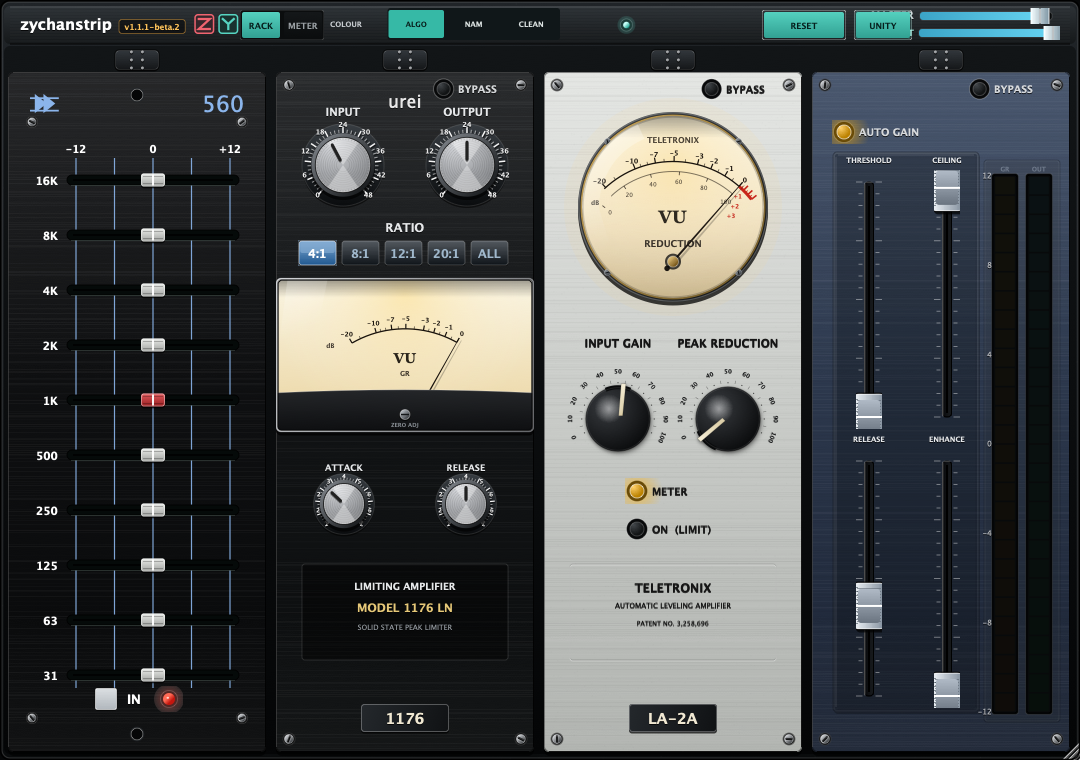
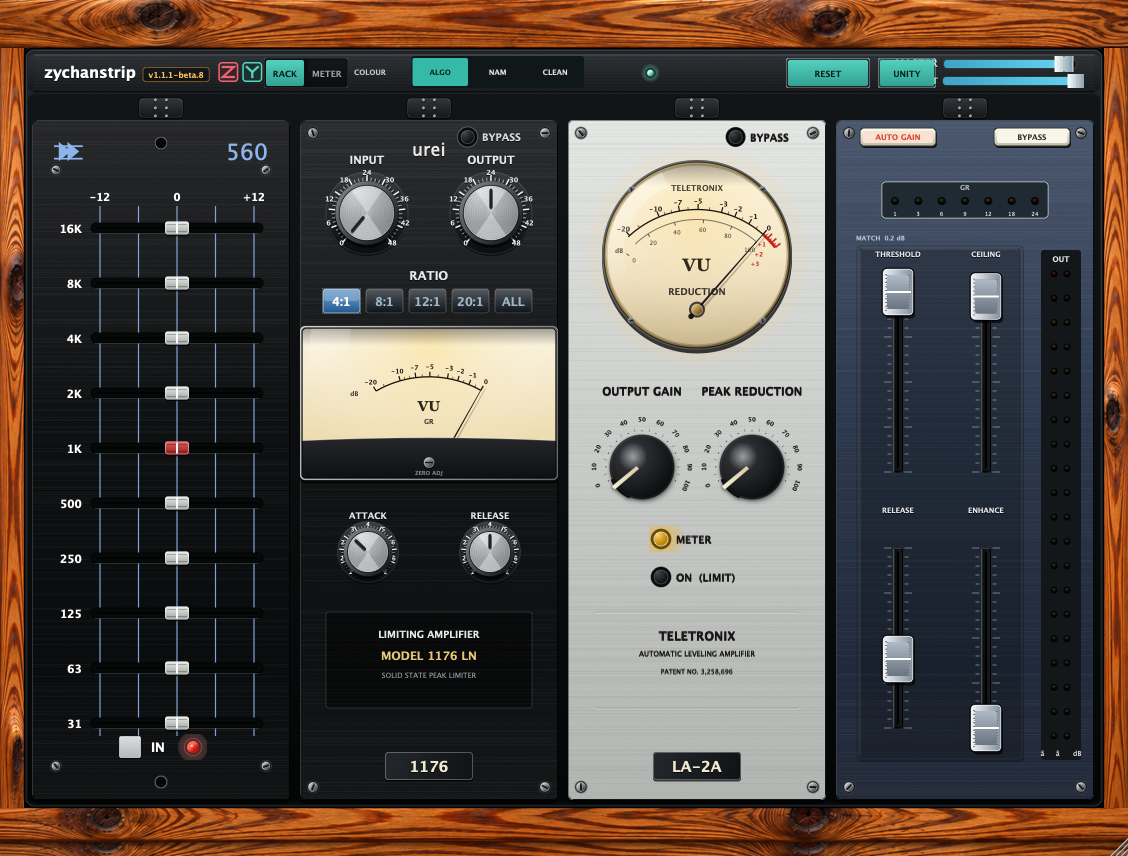
Add live wood frame to rack and meter UI

diff --git a/Source/PluginEditor.cpp b/Source/PluginEditor.cpp
@@ -1,6 +1,7 @@
 #include "PluginEditor.h"
 #include "MeterPanel.h"
 #include "UiStyle.h"
+#include "BinaryData.h"
 
 
 using namespace juce;
@@ -20,8 +21,69 @@ constexpr int kMargin = 8;      // window chrome margin
 constexpr int kHeaderH = 44;     // header bar height
 constexpr int kGripH = 24;       // space above each plate for the drag grip
 constexpr int kGap = 10;         // gap between plates
-constexpr int kEditorW = 1080;
-constexpr int kEditorH = 760;
+constexpr int kEditorW = ZychanStripEditor::kCanvasWidth;
+constexpr int kEditorH = ZychanStripEditor::kCanvasHeight;
+
+const Image& woodTopTexture()
+{
+    static const Image image = ImageCache::getFromMemory (ZychanStripWoodFrameData::wood_top_png,
+                                                           ZychanStripWoodFrameData::wood_top_pngSize);
+    return image;
+}
+
+const Image& woodBottomTexture()
+{
+    static const Image image = ImageCache::getFromMemory (ZychanStripWoodFrameData::wood_bottom_png,
+                                                           ZychanStripWoodFrameData::wood_bottom_pngSize);
+    return image;
+}
+
+const Image& woodLeftTexture()
+{
+    static const Image image = ImageCache::getFromMemory (ZychanStripWoodFrameData::wood_left_png,
+                                                           ZychanStripWoodFrameData::wood_left_pngSize);
+    return image;
+}
+
+const Image& woodRightTexture()
+{
+    static const Image image = ImageCache::getFromMemory (ZychanStripWoodFrameData::wood_right_png,
+                                                           ZychanStripWoodFrameData::wood_right_pngSize);
+    return image;
+}
+
+void drawWoodFrame (Graphics& g, Rectangle<float> bounds)
+{
+    constexpr float logicalWidth = (float) ZychanStripEditor::kCanvasWidth;
+    constexpr float logicalHeight = (float) ZychanStripEditor::kCanvasHeight;
+    constexpr float frameWidth = logicalWidth + 2.0f * (float) ZychanStripEditor::kWoodSideRail;
+    constexpr float frameHeight = logicalHeight + 2.0f * (float) ZychanStripEditor::kWoodTopBottomRail;
+    const float scale = jmax (0.01f, jmin (bounds.getWidth() / frameWidth, bounds.getHeight() / frameHeight));
+    const float side = (bounds.getWidth() - logicalWidth * scale) * 0.5f;
+    const float horizontal = (bounds.getHeight() - logicalHeight * scale) * 0.5f;
+    const float innerHeight = logicalHeight * scale;
+
+    g.setImageResamplingQuality (Graphics::highResamplingQuality);
+    g.drawImage (woodTopTexture(), Rectangle<float> (bounds.getX(), bounds.getY(), bounds.getWidth(), horizontal),
+                 RectanglePlacement::stretchToFit);
+    g.drawImage (woodBottomTexture(), Rectangle<float> (bounds.getX(), bounds.getBottom() - horizontal,
+                                                         bounds.getWidth(), horizontal),
+                 RectanglePlacement::stretchToFit);
+    g.drawImage (woodLeftTexture(), Rectangle<float> (bounds.getX(), bounds.getY() + horizontal,
+                                                       side, innerHeight),
+                 RectanglePlacement::stretchToFit);
+    g.drawImage (woodRightTexture(), Rectangle<float> (bounds.getRight() - side, bounds.getY() + horizontal,
+                                                        side, innerHeight),
+                 RectanglePlacement::stretchToFit);
+
+    // A fine dark inner reveal joins the live canvas to the wood without covering controls.
+    g.setColour (Colours::black.withAlpha (0.72f));
+    g.drawRect (Rectangle<float> (side, horizontal, logicalWidth * scale, logicalHeight * scale),
+                jmax (1.0f, 2.0f * scale));
+    g.setColour (Colours::white.withAlpha (0.16f));
+    g.drawLine (side + 2.0f * scale, horizontal + scale,
+                side + (logicalWidth - 2.0f) * scale, horizontal + scale, jmax (0.6f, scale));
+}
 
 // Authentic zynamfx ZY monogram SVG (exact brand mark from zynamfx Brand.cpp)
 constexpr const char* kZyMarkSvg =
@@ -2316,9 +2378,11 @@ ZychanStripEditor::ZychanStripEditor (ZychanStripProcessor& p)
     mixAttachment = std::make_unique<AudioProcessorValueTreeState::SliderAttachment> (proc.apvts, "master_mix", mixFader);
 
     setResizable (true, true);
-    setResizeLimits (864, 608, 1620, 1140);
-    getConstrainer()->setFixedAspectRatio ((double) kEditorW / kEditorH);
-    setSize (864, 608);
+    constexpr int framedW = kEditorW + 2 * kWoodSideRail;
+    constexpr int framedH = kEditorH + 2 * kWoodTopBottomRail;
+    setResizeLimits (904, 686, framedW * 3 / 2, framedH * 3 / 2);
+    getConstrainer()->setFixedAspectRatio ((double) framedW / framedH);
+    setSize (framedW, framedH);
     meterPanel->onUpdateIntervalChanged = [this](int ms) { startTimer(ms); };
     startTimer (33);
 }
@@ -2403,16 +2467,22 @@ void ZychanStripEditor::resized()
     // Reset button sits on the header, left of the master fader.
     resetButton.setBounds (kEditorW - kMargin - 160 - 150, 10, 84, 30);
     unityButton->setBounds (kEditorW - kMargin - 160 - 58, 10, 58, 30);
-    if (meterPanel != nullptr && metersShown)
-        meterPanel->setBounds (getLocalBounds());
-
-    const float scale = jmax (0.01f, jmin ((float) getWidth() / kEditorW, (float) getHeight() / kEditorH));
-    canvasTransform = AffineTransform::scale (scale).translated (
-        ((float) getWidth() - kEditorW * scale) * 0.5f,
-        ((float) getHeight() - kEditorH * scale) * 0.5f);
+    constexpr float framedWidth = (float) kEditorW + 2.0f * (float) kWoodSideRail;
+    constexpr float framedHeight = (float) kEditorH + 2.0f * (float) kWoodTopBottomRail;
+    const float scale = jmax (0.01f, jmin ((float) getWidth() / framedWidth,
+                                           (float) getHeight() / framedHeight));
+    const float offsetX = ((float) getWidth() - kEditorW * scale) * 0.5f;
+    const float offsetY = ((float) getHeight() - kEditorH * scale) * 0.5f;
+    canvasTransform = AffineTransform::scale (scale).translated (offsetX, offsetY);
     canvas.setTransform (canvasTransform);
+    if (meterPanel != nullptr)
+    {
+        meterPanel->setBounds (0, 0, kEditorW, kEditorH);
+        meterPanel->setTransform (canvasTransform);
+    }
     if(metersShown)
-        colourSelector.setBounds(roundToInt(getWidth()*0.59f),16,roundToInt(getWidth()*0.23f),26);
+        colourSelector.setBounds (Rectangle<float> (kEditorW * 0.59f, 16.0f, kEditorW * 0.23f, 26.0f)
+                                      .transformedBy (canvasTransform).toNearestInt());
     else
         colourSelector.setBounds(Rectangle<float>(330,8,230,32).transformedBy(canvasTransform).toNearestInt());
     colourSelector.toFront(false);
@@ -2573,6 +2643,7 @@ void ZychanStripEditor::UnityButton::mouseUp (const MouseEvent& e)
 void ZychanStripEditor::paint (Graphics& g)
 {
     g.fillAll (Colour (0xff060708));
+    drawWoodFrame (g, getLocalBounds().toFloat());
     g.saveState();
     g.addTransform (canvasTransform);
     const Rectangle<float> full (0.0f, 0.0f, (float) kEditorW, (float) kEditorH);

diff --git a/tools/snapshot_main.cpp b/tools/snapshot_main.cpp
@@ -498,7 +498,7 @@ void resetTests()
 // meters, scope and correlation show genuine measurements rather than resting values.
 void meterPageTests (ZychanStripProcessor& proc, ZychanStripEditor& editor, const juce::File& output)
 {
-    const juce::Point<int> sizes[] { { 1080, 760 }, { 864, 608 } };
+    const juce::Point<int> sizes[] { { 904, 686 }, { 1128, 856 }, { 1692, 1284 } };
     int pass = 0;
     for (const auto size : sizes)
     {
@@ -548,6 +548,13 @@ void meterPageTests (ZychanStripProcessor& proc, ZychanStripEditor& editor, cons
         // (hidden components are not enumerated by getChildren()).
         if (auto* meter = editor.isMeterPageVisible() ? findNamed (editor, "Meter page") : nullptr)
         {
+            const auto meterMapped = editor.getLocalArea (meter, meter->getLocalBounds());
+            auto* canvas = findNamed (editor, "Rack canvas");
+            const auto canvasMapped = canvas != nullptr
+                ? editor.getLocalArea (canvas, canvas->getLocalBounds()) : juce::Rectangle<int>();
+            check (canvas != nullptr && meterMapped == canvasMapped,
+                   "meter page and rack canvas share the same framed resize mapping");
+
             const auto hb = meter->getLocalBounds().reduced (14, 12).removeFromTop (34);
             const juce::Rectangle<int> backSample (hb.getX() + 4, hb.getCentreY() - 8, 10, 16);
             const juce::Rectangle<int> resetSample (hb.getCentreX() - 40, hb.getCentreY() - 8, 10, 16);
@@ -607,7 +614,7 @@ void meterPageTests (ZychanStripProcessor& proc, ZychanStripEditor& editor, cons
     }
     // Return to the rack so the following editorTests() render the rack page.
     editor.setMeterPageVisible (false);
-    editor.setSize (1080, 760);
+    editor.setSize (1128, 856);
 }
 
 void editorTests (ZychanStripProcessor& proc, ZychanStripEditor& editor, const juce::File& output)
@@ -698,9 +705,10 @@ void editorTests (ZychanStripProcessor& proc, ZychanStripEditor& editor, const j
     auto* constrainer = editor.getConstrainer();
     check (editor.isResizable() && constrainer != nullptr, "editor supports constrained resizing");
     if (constrainer == nullptr) return;
-    const double ratio = 1080.0 / 760.0;
-    check (std::abs (constrainer->getFixedAspectRatio() - ratio) < 1.0e-6, "27:19 aspect ratio locked");
-    for (const auto size : { juce::Point<int> (864, 608), { 1080, 760 }, { 1620, 1140 } })
+    constexpr double ratio = (1080.0 + 48.0) / (760.0 + 96.0);
+    check (std::abs (constrainer->getFixedAspectRatio() - ratio) < 1.0e-6,
+           "wood-framed aspect ratio locked");
+    for (const auto size : { juce::Point<int> (904, 686), { 1128, 856 }, { 1692, 1284 } })
     {
         constrainer->setBoundsForComponent (&editor, { 0, 0, size.x, size.y }, false, false, true, true);
         check (editor.getWidth() == size.x && editor.getHeight() == size.y,
@@ -710,9 +718,19 @@ void editorTests (ZychanStripProcessor& proc, ZychanStripEditor& editor, const j
         if (canvas != nullptr)
         {
             auto mapped = editor.getLocalArea (canvas, canvas->getLocalBounds());
-            check (std::abs (mapped.getWidth() - editor.getWidth()) <= 1
-                   && std::abs (mapped.getHeight() - editor.getHeight()) <= 1,
-                   "canvas fills editor proportionally");
+            const float canvasScale = (float) mapped.getHeight() / 760.0f;
+            const int sideRail = juce::roundToInt (24.0f * canvasScale);
+            const int horizontalRail = juce::roundToInt (48.0f * canvasScale);
+            const int leftRail = mapped.getX();
+            const int topRail = mapped.getY();
+            const int rightRail = editor.getWidth() - mapped.getRight();
+            const int bottomRail = editor.getHeight() - mapped.getBottom();
+            check (std::abs (leftRail - sideRail) <= 1 && std::abs (rightRail - sideRail) <= 1
+                   && std::abs (topRail - horizontalRail) <= 1 && std::abs (bottomRail - horizontalRail) <= 1,
+                   "wood frame keeps half-width side rails at resize size");
+            check (std::abs (mapped.getWidth() - juce::roundToInt (1080.0f * canvasScale)) <= 1
+                   && std::abs (mapped.getHeight() - juce::roundToInt (760.0f * canvasScale)) <= 1,
+                   "live GUI scales proportionally inside wood frame");
             for (auto name : { "Console", "Opto", "FET", "Limiter" })
             {
                 auto* panel = findNamed (*canvas, name);

diff --git a/tools/build_snapshot.py b/tools/build_snapshot.py
@@ -42,15 +42,15 @@ cmd = [cxx] + flags + defines + includes + ["-isysroot", sdk, "-c", src, "-o", o
 print("compile:", " ".join(cmd[:6]), "...")
 subprocess.check_call(cmd)
 
-target_name = "zychanstrip"
 objs = []
-for root, _dirs, files in os.walk(os.path.join(BUILD, "CMakeFiles", f"{target_name}.dir")):
-    for f in files:
-        if not f.endswith(".o"):
-            continue
-        if "juce_audio_plugin_client" in root or f.startswith("juce_audio_plugin_client"):
-            continue
-        objs.append(os.path.join(root, f))
+for target_name in ("zychanstrip", "zychanstrip_wood_frame"):
+    for root, _dirs, files in os.walk(os.path.join(BUILD, "CMakeFiles", f"{target_name}.dir")):
+        for f in files:
+            if not f.endswith(".o"):
+                continue
+            if "juce_audio_plugin_client" in root or f.startswith("juce_audio_plugin_client"):
+                continue
+            objs.append(os.path.join(root, f))
 
 
 fw = ["Cocoa", "CoreAudio", "CoreAudioKit", "CoreMIDI", "AudioToolbox", "CoreFoundation", "IOKit", "Foundation",

diff --git a/Source/PluginEditor.h b/Source/PluginEditor.h
@@ -10,6 +10,11 @@ class MeterPanel;
 class ZychanStripEditor : public juce::AudioProcessorEditor, private juce::Timer
 {
 public:
+    static constexpr int kCanvasWidth = 1080;
+    static constexpr int kCanvasHeight = 760;
+    static constexpr int kWoodSideRail = 24;
+    static constexpr int kWoodTopBottomRail = 48;
+
     explicit ZychanStripEditor (ZychanStripProcessor&);
     ~ZychanStripEditor() override;
 

diff --git a/README.md b/README.md
@@ -8,11 +8,11 @@
 
 ### The Ultimate Analog Mastering & Tracking Rack for macOS
 
-[![Version](https://img.shields.io/badge/Version-1.1.1--beta.7-orange.svg)](#build-and-install)
+[![Version](https://img.shields.io/badge/Version-1.1.1--beta.8-orange.svg)](#build-and-install)
 [![Audio Unit](https://img.shields.io/badge/Format-AUv2%20(Audio%20Unit)-blue.svg)](#build-and-install)
 [![Architecture](https://img.shields.io/badge/Architecture-Apple%20Silicon%20(arm64)-orange.svg)](#build-and-install)
 [![Framework](https://img.shields.io/badge/Built%20with-JUCE%209-green.svg)](#architecture)
-[![Zero Bitmaps](https://img.shields.io/badge/GUI-100%25%20Procedural%20Vector-purple.svg)](#architecture)
+[![GUI](https://img.shields.io/badge/GUI-Procedural%20%2B%20Wood%20Texture-purple.svg)](#architecture)
 
 **zychanstrip** is four classic outboard processors in one rack plus a Studio-Grade metering page, delivered as a high-performance **Audio Unit (AU)** effect.
 
@@ -25,7 +25,7 @@ Two pages live side by side, switched by the **RACK / METER** toggle in the head
 
 ## Current beta: colour engines and complete feature overview
 
-**1.1.1-beta.7 is a local evaluation beta.** The embedded API/IGS captures require creator
+**1.1.1-beta.8 is a local evaluation beta.** The embedded API/IGS captures require creator
 permission before distributing the binary. Source and documentation can be shared; model
 weights are downloaded into ignored build storage. See [profile attribution](THIRD_PARTY_NOTICES.md).
 
@@ -45,7 +45,9 @@ weights are downloaded into ignored build storage. See [profile attribution](THI
   Hardware Neutral Starting Profile. Individual module bypass and persistent rack order.
 - Meter page with true-peak/RMS, loudness, stereo phase/Lissajous scope, correlation and
   31-band spectrum with RTA averaging; rack VU/GR and Enhance GR/output LED meters.
-- Resizable 864×608 to 1620×1140 interface, metal faceplates, drag handles, horizontal
+- Resizable live interface inside a figured-wood frame on both pages; top and bottom rails are
+  twice the side-rail thickness. The four wood strips are cropped from the approved frame reference;
+  the live GUI remains vector drawn and interactive. Metal faceplates, drag handles, horizontal
   Enhance fader index stripes, softened LA-2A contact/cast shadows and fixed lighting.
   Beta.3 adds smoothed Enhance slider transitions and complete fader cap/shadow bounds.
   Mouse wheel, Shift fine adjustment and double-click parameter defaults.
@@ -86,7 +88,7 @@ cd zychanstrip
 export PATH="$HOME/Library/Python/3.13/bin:$PATH"
 
 python3 tools/nam/prepare_profiles.py
-cmake -S . -B build -G Ninja -DCMAKE_BUILD_TYPE=Release -DZYCHANSTRIP_BETA=beta.7
+cmake -S . -B build -G Ninja -DCMAKE_BUILD_TYPE=Release -DZYCHANSTRIP_BETA=beta.8
 ninja -C build                       # builds only; install globally with tools/install_global.sh
 ```
 
@@ -341,11 +343,11 @@ version display, taken from CMake so it cannot drift from the artefact:
 | Build | Label | Treatment |
 | --- | --- | --- |
 | stable | `v1.1.1` | neutral grey |
-| prerelease | `v1.1.1-beta.7` | amber |
+| prerelease | `v1.1.1-beta.8` | amber |
 
 ```bash
-cmake -S . -B build -G Ninja -DCMAKE_BUILD_TYPE=Release -DZYCHANSTRIP_BETA=beta.7  # v1.1.1-beta.7
-cmake -S . -B build -G Ninja -DCMAKE_BUILD_TYPE=Release -DZYCHANSTRIP_BETA=beta.7   # …-beta.7
+cmake -S . -B build -G Ninja -DCMAKE_BUILD_TYPE=Release -DZYCHANSTRIP_BETA=beta.8  # v1.1.1-beta.8
+cmake -S . -B build -G Ninja -DCMAKE_BUILD_TYPE=Release -DZYCHANSTRIP_BETA=beta.8   # …-beta.8
 ```
 
 `PROJECT_VERSION` in `CMakeLists.txt` stays numeric (the bundle plist needs it); the prerelease
@@ -366,10 +368,10 @@ python3 tools/build_snapshot.py
 ./build/snapshot/snapshot <output-dir>
 ```
 
-It runs **589 checks** and writes PNGs to `<output-dir>`:
+It runs **593 checks** and writes PNGs to `<output-dir>`:
 
 - **DSP** (`tools/dsp_checks.h`): EQ band response, limiter behaviour, auto-gain, channel handling, master gain ramp, state roundtrip, legacy-session migration, dry/wet mix law.
-- **GUI**: page toggle clicks (real `mouseDown`, not a test seam), BACK from the meter page, control containment inside every panel at 864×608 / 1080×760 / 1620×1140, reorder by grip drag, aspect-ratio lock.
+- **GUI**: page toggle clicks (real `mouseDown`, not a test seam), BACK from the meter page, control containment, reorder by grip drag, and matching wood-frame geometry at 904×686 / 1128×856 / 1692×1284 on both pages.
 - **Snapshots**: `rack-*.png` and `meter-*.png`; the meter ones are rendered with real audio pushed through the chain so the meters, scope and analyser show genuine values.
 
 **When you add a feature, add a check.** A test that only asserts "it did something" is how real bugs ship: the dry/wet phase inversion and the auto-gain order dependence both passed the suite as originally written.
@@ -385,8 +387,8 @@ The Enhance/Limiter panel (slot 3) splits its content into a **control area** (l
 | **bottom row** | RELEASE (`lim_release`) | ENHANCE (`lim_enhance`) |
 
 The two vertical LED ladders (GR, OUT) keep the full panel height beside the grid, never inside it.
-Captions span the whole grid cell, so long names are not clipped. The harness asserts the grid geometry at
-864×608, 1080×760 and 1620×1140.
+Captions span the whole grid cell, so long names are not clipped. The harness asserts the grid geometry
+at minimum, default and maximum framed window sizes.
 
 ### Teardown check (important)
 
@@ -429,7 +431,7 @@ Closed work is recorded with evidence; anything unverified stays open deliberate
 5. **Click handling.** The rack `canvas` covers the whole editor and consumes clicks; editor-level `mouseDown` will not fire for anything drawn into the canvas. Add a child component instead (as the page toggle does).
 6. **Draw order.** `ModulePanel::paint` draws the face image, then `paintMeter`, then composites the caption layer on top. Anything that must sit *behind* a live meter belongs in the face image (`paintFaceBase`), not the caption layer.
 7. **Repaint hygiene.** Meter ticks run at 30 Hz; only repaint while `isShowing()`. A timer firing during teardown can post into a dying message queue.
-8. **Bitmaps are banned.** All graphics are procedural `juce::Graphics` calls so the UI stays sharp at any scale (864×608 → 1620×1140, 27:19 locked).
+8. Graphics are procedural `juce::Graphics` calls except for the four approved wood frame texture strips. The live interface stays vector drawn and scales inside the frame (904×686 → 1692×1284, framed aspect ratio locked).
 
 ### Repo conventions
 - Remote: `https://git.zyusof.net/zack/zychanstrip` (Gitea). `main` is the trunk.
@@ -439,6 +441,12 @@ Closed work is recorded with evidence; anything unverified stays open deliberate
 ---
 
 ## Changelog
+
+### 2026-11-06 — 1.1.1-beta.8 wooden GUI frame
+
+- Added the approved figured-wood frame around the live rack and meter pages, with side rails half as thick as the top and bottom rails.
+- Embedded four wood-only crops from the approved mockup; no mockup GUI content is used. Rack, meter controls and interactions remain live and scale together at every supported size.
+- Added resize and snapshot coverage for frame proportions and matching rack/meter content bounds at minimum, default and maximum sizes.
 
 ### 2026-11-04 — 1.1.1-beta.2 local NAM evaluation
 
@@ -458,7 +466,7 @@ Closed work is recorded with evidence; anything unverified stays open deliberate
 
 Every notable change since the `v1.0` tag — framework upgrades, DSP fixes, UI changes, harness growth
 and the reasons behind them — is recorded in [CHANGELOG.md](CHANGELOG.md), following Keep a Changelog.
-Current local beta: **1.1.1-beta.7**. No stable release is authorized; promotion remains the user's decision.
+Current local beta: **1.1.1-beta.8**. No stable release is authorized; promotion remains the user's decision.
 
 Enhance GUI refresh: horizontal GR LEDs beneath the top switches, top-left Auto Gain matched to bypass size, ivory illuminated switches and twin-column OUT LEDs with a dB readout.
 

diff --git a/docs/specs/wood-frame.md b/docs/specs/wood-frame.md
@@ -1,0 +1,22 @@
+# Wooden GUI frame
+
+## Scope
+
+Add the approved figured-wood frame around the existing live rack and meter pages. The mockup is
+used only as a source for four wood-only texture strips; none of its older GUI is included. All
+controls, DSP, and page interactions remain part of the current editor.
+
+## Geometry and resize behavior
+
+- The top and bottom rails are 48 logical pixels; the left and right rails are 24 logical pixels.
+- The rack canvas and meter page use one shared scale and centered transform inside the frame.
+- The outer resize ratio includes the rails, keeping the live 1080×760 canvas undistorted.
+- Minimum, default, and maximum snapshots cover both pages; geometry checks assert matching bounds
+  and the 2:1 top/bottom-to-side rail ratio.
+
+## Assets
+
+`Assets/wood_top.png`, `wood_bottom.png`, `wood_left.png`, and `wood_right.png` are wood-only crops
+from the approved `zychanstrip-wood-frame-thin-sides.png` reference. JUCE embeds these assets into
+the AU. `tools/build_snapshot.py` also links the generated data objects so snapshots exercise the
+same frame resources as the plugin.

diff --git a/CHANGELOG.md b/CHANGELOG.md
@@ -10,6 +10,12 @@ has been published.
 
 ## [Unreleased]
 
+### Added — 1.1.1-beta.8 wooden GUI frame (2026-11-06)
+
+- Add the approved figured-wood frame around the live rack and meter pages, with side rails half as thick as the top and bottom rails.
+- Embed four wood-only crops from the approved mockup; do not use its older GUI. Existing live controls, layout, DSP, and interactions remain active and scale together.
+- Verify minimum, default, and maximum rack and meter snapshots, matching page bounds, packaged AU metadata/factory/rendering, and global install.
+
 ### Fixed — 1.1.1-beta.6 parallel mix phase repair (2026-11-05)
 
 - Replace EQ oversampling's flat-setting phase rotation with a 63-tap linear-phase halfband pair, retaining the 2x SVF EQ law and matching 31-sample Console bypass delay.
